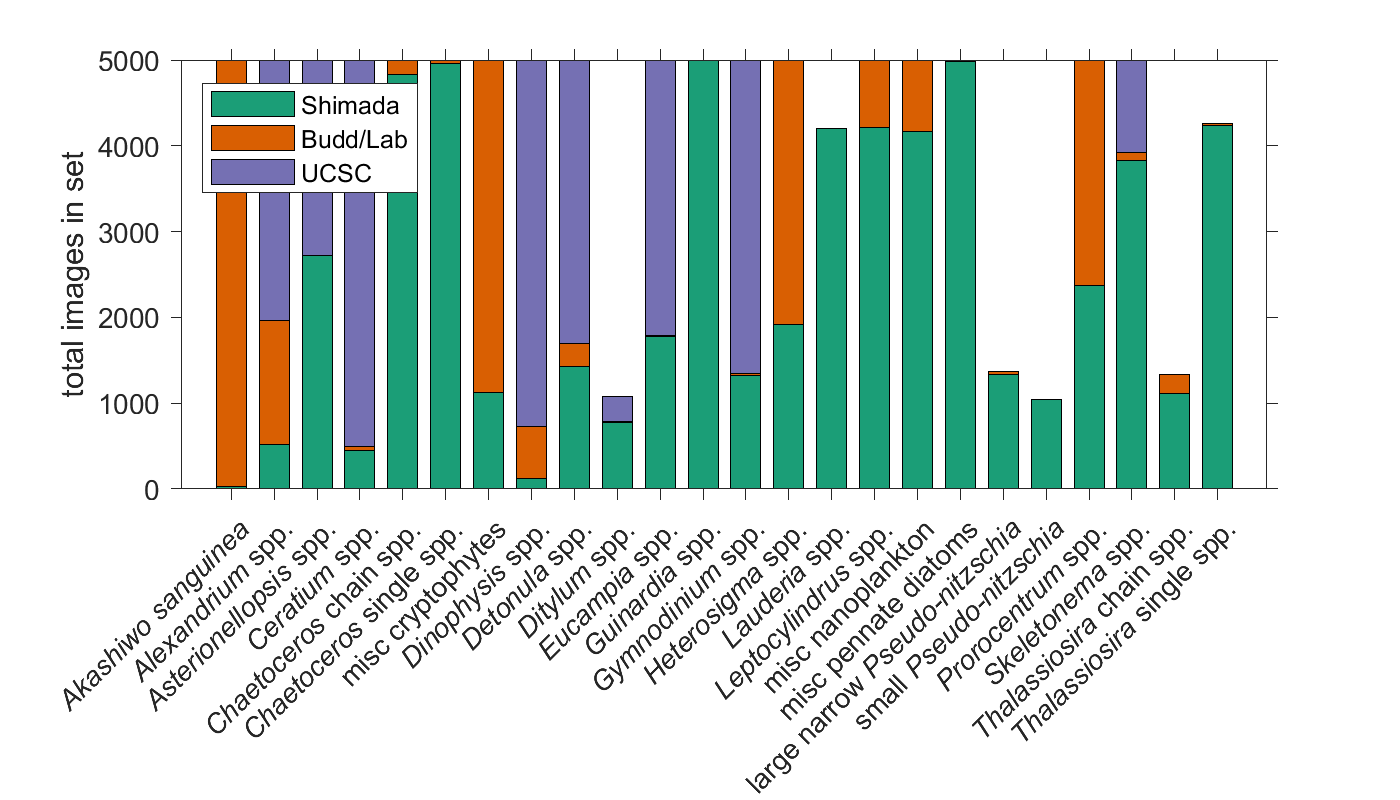
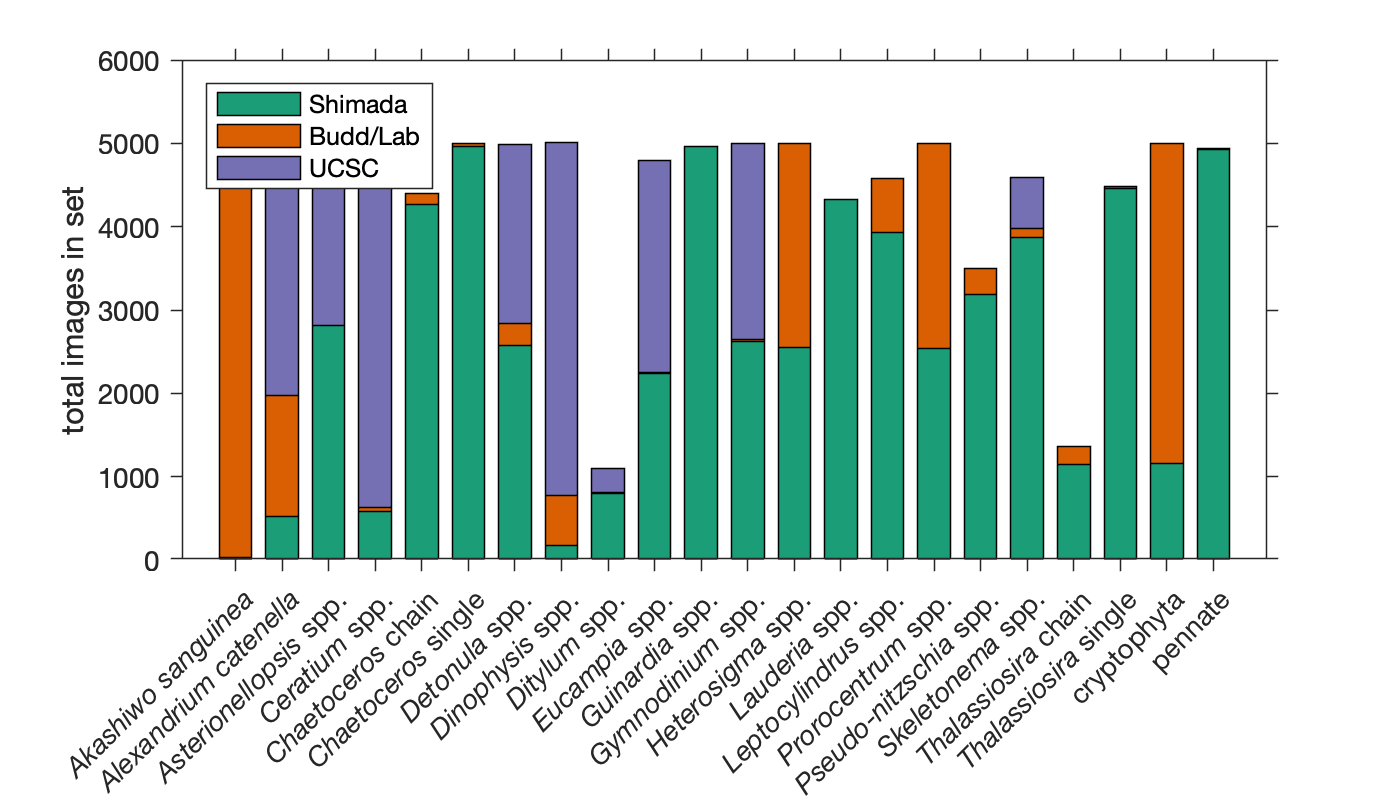
new index files

diff --git a/IFCB-Tools/plot_classifier_performance.m b/IFCB-Tools/plot_classifier_performance.m
@@ -1,5 +1,5 @@
 clear;
-Mac=0;
+Mac=1;
 %name='16Feb2022_nocentric_ungrouped_PN';
 %name='23Feb2022_nonano';
 %name='24Feb2022';
@@ -18,32 +18,48 @@ end
 addpath(genpath(basepath));
 
 load([filepath 'performance_classifier_' name],'topfeat','all','opt','c_all','c_opt','NOAA','UCSC','BI');
-
-[~,class]=get_phyto_ind_NOAA(all.class);
     
+%% plot stacked total in set
+figure('Units','inches','Position',[1 1 7 4],'PaperPositionMode','auto');
+b = bar([NOAA.total BI.total UCSC.total],'stack','Barwidth',.7);
+col=brewermap(3,'Dark2'); %col=[[.3 .3 .3];col];
+for i=1:length(b)
+    set(b(i),'FaceColor',col(i,:));
+end  
+    
+legend('Shimada','Budd/Lab','UCSC','Location','NW');
+
+[~,classp]=get_class_ind( all.class, 'all', basepath);
+set(gca, 'xtick', 1:length(classp), 'xticklabel', classp,'tickdir','out');
+ylabel('total images in set');
+xtickangle(45);
+
+set(gcf,'color','w');
+print(gcf,'-dpng','-r200',[figpath 'total_UCSC_NWFSC.png']);
+hold off
+
 %% Winner takes All
 % plot bar Recall and Precision
 % sort by F1
 all=sortrows(all,'F1','descend');
-
-[~,C]=get_class_ind( all.class, 'all', basepath);
+[~,class]=get_class_ind( all.class, 'all', basepath);
 
 figure('Units','inches','Position',[1 1 7 4],'PaperPositionMode','auto');
 yyaxis left;
 b=bar([all.R all.P],'Barwidth',1,'linestyle','none'); hold on
 hline(.9,'k--');
-set(gca,'ycolor','k', 'xtick', 1:length(C), 'xticklabel', C); hold on
+set(gca,'ycolor','k', 'xtick', 1:length(class), 'xticklabel', class); hold on
 ylabel('Performance');
 col=flipud(brewermap(2,'RdBu')); 
 for i=1:length(b)
     set(b(i),'FaceColor',col(i,:));
 end  
 yyaxis right;
-plot(1:length(C),all.total,'k*'); hold on
+plot(1:length(class),all.total,'k*'); hold on
 ylabel('total images in set');
-set(gca,'ycolor','k', 'xtick', 1:length(C), 'xticklabel', C); hold on
+set(gca,'ycolor','k', 'xtick', 1:length(class), 'xticklabel', class); hold on
 legend('Recall', 'Precision','Location','W')
-title(['Winner-takes-all: ' num2str(length(C)) ' classes ranked by F1 score'])
+title(['Winner-takes-all: ' num2str(length(class)) ' classes ranked by F1 score'])
 xtickangle(45);
 
 set(gcf,'color','w');
@@ -102,22 +118,6 @@ set(gcf,'color','w');
 print(gcf,'-dpng','-r200',[figpath 'confusion_matrix_opt_' name '.png']);
 hold off
 
-%% plot stacked total in set
-figure('Units','inches','Position',[1 1 7 4],'PaperPositionMode','auto');
-b = bar([NOAA.total BI.total UCSC.total],'stack','Barwidth',.7);
-col=brewermap(3,'Dark2'); %col=[[.3 .3 .3];col];
-for i=1:length(b)
-    set(b(i),'FaceColor',col(i,:));
-end  
-    
-legend('Shimada','Budd/Lab','UCSC','Location','NW');
-set(gca, 'xtick', 1:length(class), 'xticklabel', class,'tickdir','out');
-ylabel('total images in set');
-xtickangle(45);
-
-set(gcf,'color','w');
-print(gcf,'-dpng','-r200',[figpath 'total_UCSC_NWFSC.png']);
-hold off
 
 %%
 % %% plot total in set

diff --git a/IFCB-Tools/get_indices/get_class_ind.m b/IFCB-Tools/get_indices/get_class_ind.m
@@ -8,16 +8,14 @@ function [ ia, class_label ] = get_class_ind( class2use, target, filepath)
 %     'Helicotheca';'Hemiaulus';'Lauderia';'Leptocylindrus';'Licmophora';...
 %     'Lioloma';'Lithodesmium';'Melosira';'Nitzschia';'Odontella'};
 %filepath = '~/Documents/MATLAB/bloom-baby-bloom/';
-filepath= 'C:\Users\ifcbuser\Documents\GitHub\bloom-baby-bloom\';
-target= 'all';%'diatom'; %'all' 'dinoflagellate' 'unclassified' 'otherphyto' 'nonliving' 'nanoplankton' 'zooplankton' 'larvae'
-class2use=all.class;
+%filepath= 'C:\Users\ifcbuser\Documents\GitHub\bloom-baby-bloom\';
+%target= 'all';%'diatom'; %'all' 'dinoflagellate' 'unclassified' 'otherphyto' 'nonliving' 'nanoplankton' 'zooplankton' 'larvae'
 
 load([filepath 'IFCB-Tools/get_indices/class_indices.mat'],'class','class_proper','category');
-%%
+
 if strcmp('all',target)
     [~,ia,ib]=intersect(class2use, class,'stable');
     class_label=class_proper(ib);
-
 else
     ind_cat=strcmp(target, category);
     class2get=class(ind_cat); %indices of that category
